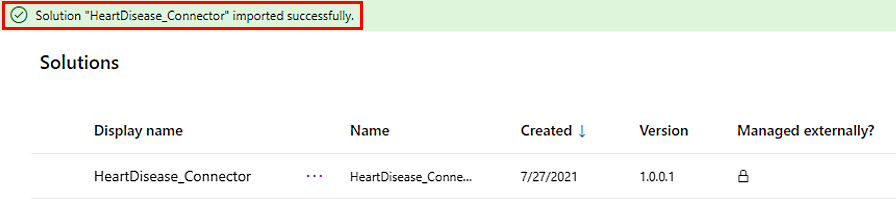
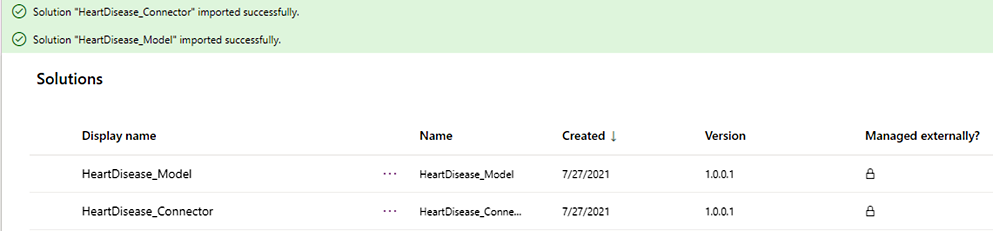
used full screenshots

diff --git a/ai-builder-docs/byom-alm.md b/ai-builder-docs/byom-alm.md
@@ -108,6 +108,8 @@ For help on how to import solutions, go to [Import solutions for Power Apps](/po
 
 1. Import the solution containing only the custom connector.
 
+1. Upload the solution and begin the import process.
+
 1.	Create the connection to your external endpoint:
 
       - If your endpoint is not secured, select **Create**.
@@ -116,15 +118,12 @@ For help on how to import solutions, go to [Import solutions for Power Apps](/po
     > [!div class="mx-imgBorder"]
     > ![Screenshot of the connection to an external endpoint.](media/byom-alm/alm-key.png "connection to an external endpoint")
 
-1. Select **Import**.
-
-   > [!div class="mx-imgBorder"]
-   > ![Screenshot of the imported solution.](media/byom-alm/alm-import.png "Imported solution")
-
-
 1.	Import the solution containing the model, connection reference, and any other components.
 
 Your model is now ready to be consumed in your target environment.
+
+  > [!div class="mx-imgBorder"]
+  > ![Screenshot of the imported solutions.](media/byom-alm/alm-import.png "Imported solutions")
 
 If you experience issues with your import, go to [Troubleshooting solution import](/powerapps/maker/data-platform/import-update-export-solutions).
 
@@ -213,10 +212,11 @@ For help on how to import solutions, go to [Import solutions for Power Apps](/po
 
 1. To upgrade the old version, select **Apply upgrade**.
 
-    In the following example, all components in the environment now reference the new version of the model.
-
    > [!div class="mx-imgBorder"]
    > ![Screenshot of components after the upgrade is applied.](media/byom-alm/alm-stage-2.png "Components after the upgrade is applied")
+
+All components in the environment now reference the new version of the model.
+
 
 ### See also
 
